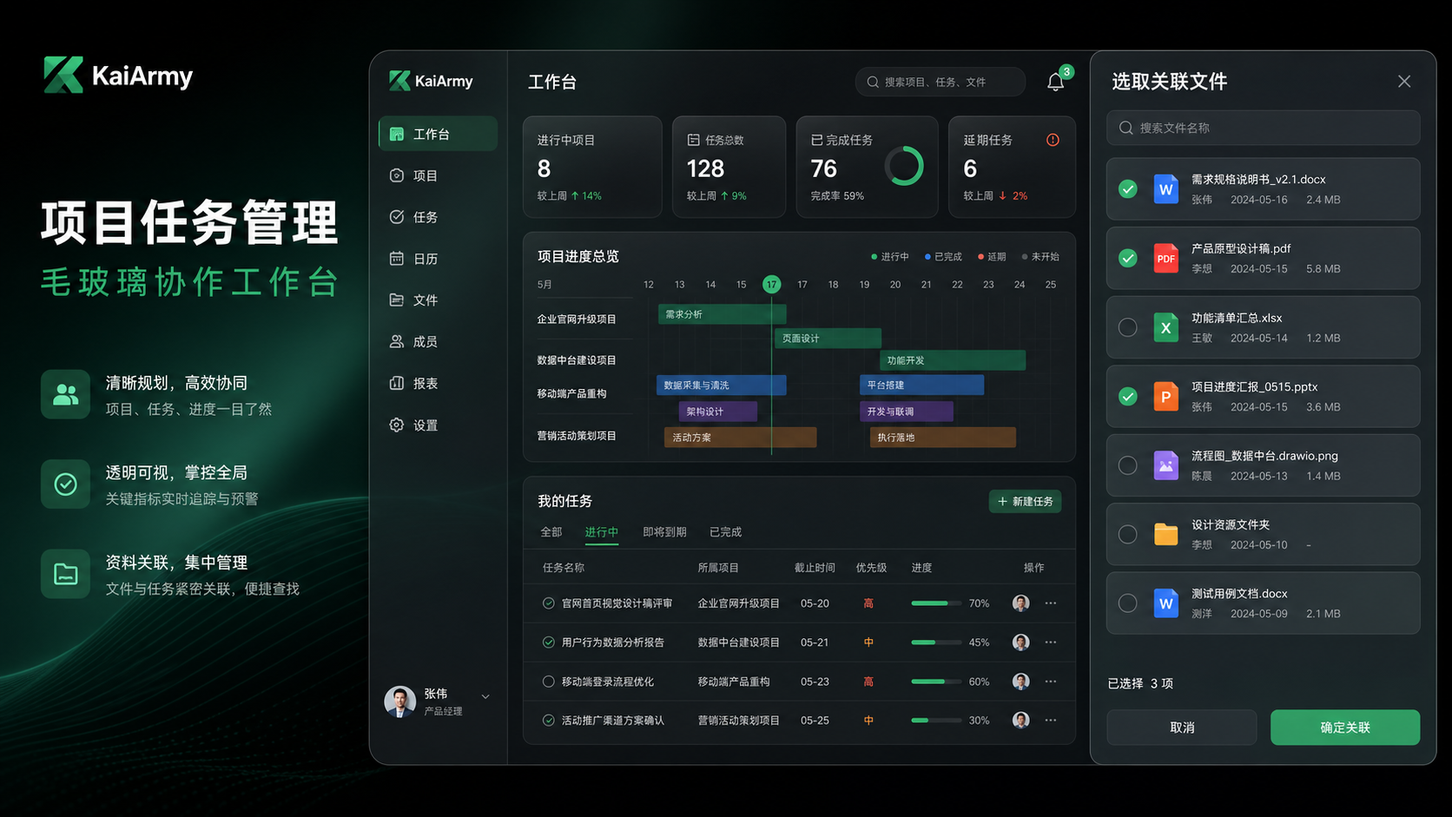
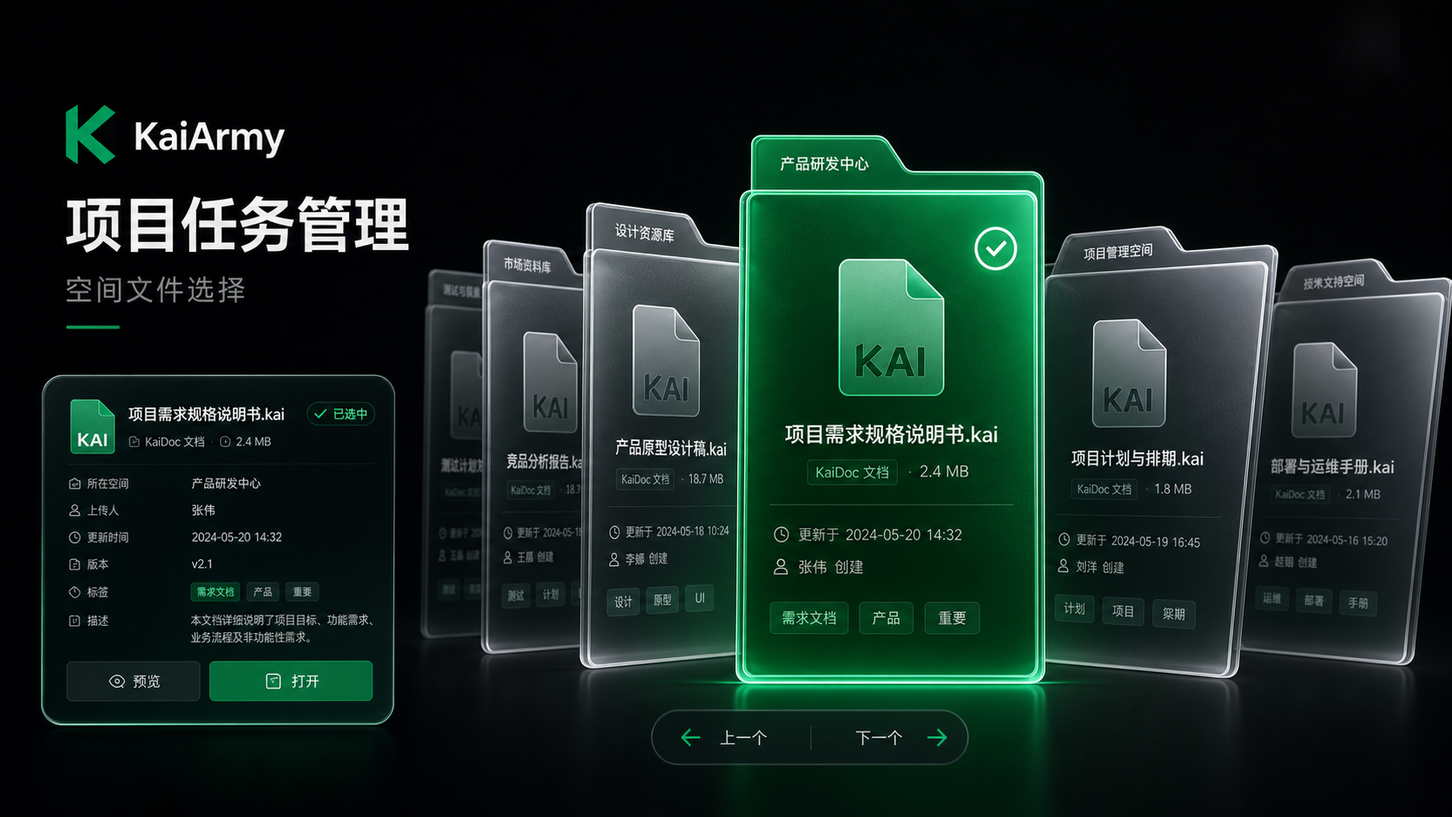
Build spatial glass file picker

diff --git a/app/globals.css b/app/globals.css
@@ -117,18 +117,20 @@ button:focus-visible, input:focus-visible, textarea:focus-visible, select:focus-
 .modal > header { display: flex; justify-content: space-between; margin-bottom: 18px; }.modal h2 { margin: 0 0 5px; font-size: 17px; }.modal header p { margin: 0; color: var(--faint); font-size: 8px; }.modal header button { background: transparent; color: var(--faint); font-size: 20px; }.modal-grid { display: grid; grid-template-columns: 1fr 1fr; gap: 12px; }.modal-grid label { display: flex; flex-direction: column; gap: 6px; color: var(--muted); font-size: 8px; }.modal-grid label.full { grid-column: 1 / -1; }.modal-grid input,.modal-grid textarea,.modal-grid select { width: 100%; min-height: 36px; padding: 0 10px; border: 1px solid var(--border); border-radius: 7px; outline: 0; background: var(--panel-2); font-size: 9px; }.modal-grid textarea { height: 78px; padding-top: 10px; resize: vertical; }.modal > footer { margin-top: 20px; display: flex; justify-content: flex-end; gap: 7px; }.modal > footer button { min-width: 80px; height: 36px; border: 1px solid var(--border); border-radius: 7px; background: var(--panel-2); color: var(--muted); font-size: 8px; }.modal > footer .primary { border: 0; background: var(--green); color: #04150b; }
 .toast { position: fixed; z-index: 70; top: 17px; left: 50%; transform: translateX(-50%); padding: 10px 16px; border: 1px solid rgba(53,216,126,.25); border-radius: 999px; background: #102419; color: #b6f1cf; font-size: 8px; box-shadow: 0 14px 40px rgba(0,0,0,.35); animation: toastIn .2s var(--ease); }
 @keyframes toastIn { from { opacity: 0; transform: translate(-50%,-8px); } }
-.file-picker-backdrop { position: fixed; inset: 0; z-index: 60; background: rgba(0,0,0,.54); backdrop-filter: blur(7px); -webkit-backdrop-filter: blur(7px); animation: fadeIn .18s ease-out; }
+.file-picker-backdrop { position: fixed; inset: 0; z-index: 60; padding: 20px; display: grid; place-items: center; background: radial-gradient(circle at 62% 42%,rgba(16,96,52,.16),transparent 37%),rgba(0,0,0,.72); backdrop-filter: blur(9px); -webkit-backdrop-filter: blur(9px); animation: fadeIn .18s ease-out; }
 @keyframes fadeIn { from { opacity: 0; } }
-.file-picker-drawer { position: absolute; inset: 0 0 0 auto; width: min(440px,calc(100vw - 28px)); padding: 22px; display: flex; flex-direction: column; background: linear-gradient(145deg,rgba(34,43,38,.84),rgba(13,18,15,.88)); border-left: 1px solid rgba(255,255,255,.13); box-shadow: inset 1px 0 rgba(255,255,255,.06),-28px 0 80px rgba(0,0,0,.42); backdrop-filter: blur(32px) saturate(145%); -webkit-backdrop-filter: blur(32px) saturate(145%); animation: drawerIn .26s var(--ease); }
-@keyframes drawerIn { from { transform: translateX(100%); } }
-.file-picker-drawer > header { display: flex; justify-content: space-between; padding-bottom: 19px; border-bottom: 1px solid var(--border); }.file-picker-drawer > header span { color: var(--green); font-size: 7px; letter-spacing: 1.6px; }.file-picker-drawer > header h2 { margin: 7px 0 5px; font-size: 18px; }.file-picker-drawer > header p { margin: 0; color: var(--faint); font-size: 8px; }.file-picker-drawer > header button { width: 32px; height: 32px; border: 1px solid var(--border); border-radius: 8px; background: rgba(255,255,255,.035); color: var(--muted); font-size: 18px; }
-.file-search { height: 39px; margin-top: 17px; padding: 0 11px; display: flex; align-items: center; gap: 8px; border: 1px solid var(--border); border-radius: 9px; background: rgba(255,255,255,.035); box-shadow: inset 0 1px rgba(255,255,255,.04); }.file-search span { color: var(--faint); }.file-search input { flex: 1; min-width: 0; border: 0; outline: 0; background: transparent; font-size: 8px; }
-.picker-summary { min-height: 44px; display: flex; align-items: center; justify-content: space-between; color: var(--muted); font-size: 8px; }.picker-summary strong { color: var(--green); }.picker-summary button { background: transparent; color: var(--faint); font-size: 7px; }
-.file-picker-list { flex: 1; min-height: 0; overflow-y: auto; display: flex; flex-direction: column; gap: 7px; padding-right: 3px; }
-.file-picker-list > button { width: 100%; min-height: 90px; padding: 11px; display: grid; grid-template-columns: 33px 1fr 22px; gap: 9px; align-items: start; border: 1px solid var(--border); border-radius: 10px; background: linear-gradient(140deg,rgba(255,255,255,.045),rgba(255,255,255,.012)); text-align: left; transition: .16s var(--ease); }.file-picker-list > button:hover { border-color: var(--border-strong); transform: translateY(-1px); }.file-picker-list > button.selected { border-color: rgba(53,216,126,.43); background: linear-gradient(140deg,rgba(53,216,126,.12),rgba(53,216,126,.035)); box-shadow: inset 0 1px rgba(255,255,255,.06),0 8px 24px rgba(0,0,0,.18); }
-.file-icon { width: 32px; height: 32px; display: grid; place-items: center; border-radius: 8px; background: rgba(53,216,126,.1); color: var(--green); }.file-picker-list > button > div { min-width: 0; }.file-picker-list strong { display: block; font-size: 9px; }.file-picker-list small { display: block; margin-top: 4px; color: var(--faint); font-size: 6px; }.file-picker-list p { margin: 8px 0 0; color: var(--muted); font-size: 7px; line-height: 1.45; display: -webkit-box; -webkit-box-orient: vertical; -webkit-line-clamp: 2; overflow: hidden; }.checkmark { width: 20px; height: 20px; display: grid; place-items: center; border: 1px solid var(--border-strong); border-radius: 6px; color: #04150b; font-size: 9px; }.file-picker-list button.selected .checkmark { border-color: var(--green); background: var(--green); }
-.picker-empty { min-height: 180px; display: flex; flex-direction: column; align-items: center; justify-content: center; color: var(--faint); }.picker-empty > span { color: var(--green); font-size: 26px; }.picker-empty strong { margin-top: 8px; color: var(--muted); font-size: 9px; }.picker-empty p { font-size: 7px; }
-.file-picker-drawer > footer { padding-top: 16px; display: grid; grid-template-columns: 1fr 1.35fr; gap: 8px; border-top: 1px solid var(--border); }.file-picker-drawer > footer button { height: 39px; border: 1px solid var(--border); border-radius: 8px; background: rgba(255,255,255,.035); color: var(--muted); font-size: 8px; }.file-picker-drawer > footer .primary { border: 0; background: var(--green); color: #04150b; }
+.spatial-picker { width: min(1120px,calc(100vw - 40px)); height: min(720px,calc(100vh - 40px)); min-height: 560px; display: grid; grid-template-rows: 86px minmax(0,1fr) 66px; overflow: hidden; border: 1px solid rgba(255,255,255,.14); border-radius: 22px; background: linear-gradient(145deg,rgba(30,39,34,.76),rgba(8,12,10,.87)); box-shadow: inset 0 1px rgba(255,255,255,.09),0 40px 110px rgba(0,0,0,.66); backdrop-filter: blur(34px) saturate(145%); -webkit-backdrop-filter: blur(34px) saturate(145%); animation: spatialOpen .32s var(--ease); }
+@keyframes spatialOpen { from { opacity: 0; transform: translateY(18px) scale(.97); } }
+.spatial-picker-header { padding: 0 20px 0 24px; display: grid; grid-template-columns: 1fr minmax(210px,310px) 38px; align-items: center; gap: 16px; border-bottom: 1px solid var(--border); background: linear-gradient(180deg,rgba(255,255,255,.035),transparent); }.spatial-picker-header > div > span { color: var(--green); font-size: 7px; letter-spacing: 1.8px; }.spatial-picker-header h2 { margin: 5px 0 3px; font-size: 17px; }.spatial-picker-header p { margin: 0; color: var(--faint); font-size: 8px; }.spatial-picker-header > button { width: 36px; height: 36px; border: 1px solid var(--border); border-radius: 9px; background: rgba(255,255,255,.035); color: var(--muted); font-size: 19px; }
+.file-search { height: 38px; padding: 0 11px; display: flex; align-items: center; gap: 8px; border: 1px solid var(--border); border-radius: 9px; background: rgba(255,255,255,.035); box-shadow: inset 0 1px rgba(255,255,255,.04); }.file-search span { color: var(--faint); }.file-search input { flex: 1; min-width: 0; border: 0; outline: 0; background: transparent; font-size: 8px; }
+.spatial-stage { min-height: 0; position: relative; overflow: hidden; touch-action: pan-y; user-select: none; background: radial-gradient(ellipse at 70% 70%,rgba(31,229,114,.11),transparent 36%),linear-gradient(180deg,rgba(0,0,0,.08),rgba(0,0,0,.3)); }
+.spatial-stage:after { content: ""; position: absolute; left: 28%; right: 4%; bottom: 58px; height: 1px; background: linear-gradient(90deg,transparent,rgba(255,255,255,.16),transparent); box-shadow: 0 14px 40px rgba(35,235,121,.12); }
+.spatial-file-summary { position: absolute; z-index: 35; left: 34px; top: 50%; width: 232px; min-height: 292px; padding: 22px; transform: translateY(-50%); border: 1px solid rgba(255,255,255,.17); border-radius: 17px; background: linear-gradient(145deg,rgba(255,255,255,.16),rgba(255,255,255,.035)); box-shadow: inset 0 1px rgba(255,255,255,.16),0 24px 65px rgba(0,0,0,.32); backdrop-filter: blur(26px) saturate(145%); -webkit-backdrop-filter: blur(26px) saturate(145%); }.spatial-file-summary > span { color: var(--green); font-size: 7px; letter-spacing: 1px; }.spatial-file-summary h3 { margin: 12px 0 10px; font-size: 18px; line-height: 1.35; }.spatial-file-summary p { height: 68px; margin: 0; overflow: hidden; color: var(--muted); font-size: 8px; line-height: 1.7; display: -webkit-box; -webkit-box-orient: vertical; -webkit-line-clamp: 4; }.spatial-file-summary > div { margin-top: 18px; display: flex; align-items: baseline; gap: 7px; }.spatial-file-summary > div strong { font-size: 30px; font-weight: 400; }.spatial-file-summary > div small { color: var(--faint); font-size: 8px; }.spatial-file-summary > button { width: 100%; height: 37px; margin-top: 18px; border: 1px solid rgba(53,216,126,.3); border-radius: 9px; background: rgba(53,216,126,.08); color: var(--green); font-size: 8px; }.spatial-file-summary > button.selected { border-color: var(--green); background: var(--green); color: #04150b; }
+.spatial-deck { position: absolute; inset: 0 0 0 270px; perspective: 1200px; perspective-origin: 52% 46%; transform-style: preserve-3d; }
+.spatial-file-card { position: absolute; left: 52%; top: 47%; width: 190px; height: 300px; padding: 0; overflow: visible; border: 1px solid rgba(255,255,255,.42); border-radius: 15px 15px 13px 13px; background: linear-gradient(150deg,rgba(255,255,255,.28),rgba(255,255,255,.055) 53%,rgba(7,10,9,.68)); box-shadow: inset 1px 1px rgba(255,255,255,.25),0 25px 46px rgba(0,0,0,.46); opacity: var(--card-opacity); transform: translate(-50%,-50%) translateX(var(--card-x)) translateY(var(--card-y)) rotateY(var(--card-rotate)) scale(var(--card-scale)); transform-origin: center center; transform-style: preserve-3d; transition: transform .46s cubic-bezier(.2,.75,.18,1),opacity .35s ease,background .25s,border-color .25s,box-shadow .25s; text-align: left; }.spatial-file-card:before { content: ""; position: absolute; inset: 25px 18px auto; height: 96px; opacity: .48; background: repeating-linear-gradient(180deg,rgba(255,255,255,.52) 0 7px,transparent 7px 16px); -webkit-mask-image: linear-gradient(90deg,#000 0 34%,transparent 34% 39%,#000 39% 73%,transparent 73% 78%,#000 78%); mask-image: linear-gradient(90deg,#000 0 34%,transparent 34% 39%,#000 39% 73%,transparent 73% 78%,#000 78%); }.spatial-file-card:after { content: ""; position: absolute; inset: 6px; border: 1px solid rgba(255,255,255,.08); border-radius: 10px; pointer-events: none; }.spatial-file-card:hover { opacity: 1; border-color: rgba(255,255,255,.66); }.spatial-file-card.active { opacity: 1; background: linear-gradient(150deg,rgba(36,244,126,.95),rgba(8,178,78,.82) 58%,rgba(4,78,34,.92)); border-color: rgba(98,255,163,.9); box-shadow: inset 1px 1px rgba(255,255,255,.35),0 0 36px rgba(28,235,113,.28),0 30px 54px rgba(0,0,0,.52); }.spatial-file-card.picked:not(.active) { border-color: rgba(53,216,126,.75); box-shadow: inset 1px 1px rgba(255,255,255,.25),0 0 20px rgba(35,220,110,.16),0 25px 46px rgba(0,0,0,.46); }
+.folder-tab { position: absolute; z-index: -1; left: -1px; top: -19px; width: 92px; height: 28px; border: 1px solid rgba(255,255,255,.42); border-bottom: 0; border-radius: 14px 20px 0 0; background: inherit; clip-path: polygon(0 20%,66% 20%,77% 0,100% 0,100% 100%,0 100%); }.paper-lines { position: absolute; left: 26px; right: 26px; top: 139px; height: 42px; opacity: .38; background: repeating-linear-gradient(180deg,rgba(255,255,255,.7) 0 2px,transparent 2px 10px); }.spatial-check { position: absolute; top: 16px; right: 15px; width: 24px; height: 24px; display: grid; place-items: center; border: 1px solid rgba(255,255,255,.36); border-radius: 50%; background: rgba(0,0,0,.12); color: white; font-size: 10px; }.spatial-file-card > div { position: absolute; inset: auto 16px 16px; display: grid; gap: 7px; color: white; text-shadow: 0 1px 5px rgba(0,0,0,.25); }.spatial-file-card > div small { opacity: .7; font-size: 7px; }.spatial-file-card > div strong { font-size: 12px; line-height: 1.35; }.spatial-file-card > div span { opacity: .78; font-size: 8px; }
+.spatial-controls { position: absolute; z-index: 40; left: calc(270px + 52%); bottom: 17px; display: flex; align-items: center; gap: 13px; transform: translateX(-50%); }.spatial-controls button { width: 34px; height: 34px; border: 1px solid var(--border); border-radius: 50%; background: rgba(255,255,255,.055); color: var(--text); }.spatial-controls span { min-width: 48px; color: var(--faint); font-size: 8px; text-align: center; }.spatial-controls strong { color: var(--green); font-size: 11px; }.spatial-empty { position: absolute; inset: 0; display: flex; flex-direction: column; align-items: center; justify-content: center; color: var(--faint); }.spatial-empty > span { color: var(--green); font-size: 30px; }.spatial-empty strong { margin-top: 9px; color: var(--muted); font-size: 10px; }.spatial-empty p { font-size: 8px; }
+.spatial-picker-footer { padding: 0 20px 0 24px; display: grid; grid-template-columns: 1fr 92px 150px; align-items: center; gap: 8px; border-top: 1px solid var(--border); background: rgba(4,7,5,.25); }.spatial-picker-footer > div { display: flex; align-items: center; gap: 13px; color: var(--muted); font-size: 8px; }.spatial-picker-footer > div strong { color: var(--green); }.spatial-picker-footer > div button { padding: 0; background: transparent; color: var(--faint); font-size: 7px; }.spatial-picker-footer > button { height: 38px; border: 1px solid var(--border); border-radius: 8px; background: rgba(255,255,255,.035); color: var(--muted); font-size: 8px; }.spatial-picker-footer > button.primary { border: 0; background: var(--green); color: #04150b; }
 .compact .page { padding: 13px 15px 20px; }.compact .kanban-column { min-height: 450px; }.compact .task-card { min-height: 106px; }.compact .column-body { min-height: 405px; }.compact .metric { min-height: 84px; }
 
 @media (max-width: 1220px) {
@@ -142,9 +144,9 @@ button:focus-visible, input:focus-visible, textarea:focus-visible, select:focus-
   .page { padding: 13px 10px 20px; }.metric-grid { grid-template-columns: repeat(2,1fr); }.summary-strip { grid-template-columns: 1fr; }.summary-strip .metric { border-right: 0; border-bottom: 1px solid var(--border); }
   .toolbar { align-items: flex-start; gap: 8px; }.toolbar > div:first-child { flex-wrap: wrap; }.project-grid,.team-grid,.settings-layout { grid-template-columns: 1fr; }.danger-zone { grid-column: auto; }.knowledge-layout { grid-template-columns: 1fr; }.knowledge-sidebar { min-height: auto; }.knowledge-article { min-height: auto; padding: 22px 18px; }
   .calendar { overflow-x: auto; }.calendar > * { min-width: 720px; }.analytics-grid { grid-template-columns: 1fr; }.stage-chart { grid-column: auto; }.task-table { overflow-x: auto; }.task-table > * { min-width: 760px; }.modal-grid { grid-template-columns: 1fr; }.modal-grid label.full { grid-column: auto; }
-  .file-picker-drawer { width: calc(100vw - 68px); }
+  .file-picker-backdrop { padding: 8px; }.spatial-picker { width: 100%; height: calc(100vh - 16px); min-height: 520px; grid-template-rows: 105px minmax(0,1fr) 62px; border-radius: 15px; }.spatial-picker-header { padding: 10px 13px; grid-template-columns: 1fr 34px; gap: 8px; }.spatial-picker-header .file-search { grid-column: 1 / -1; grid-row: 2; }.spatial-picker-header > button { grid-column: 2; grid-row: 1; width: 32px; height: 32px; }.spatial-picker-header p { display: none; }.spatial-file-summary { display: none; }.spatial-deck { left: 0; }.spatial-file-card { left: 50%; width: 156px; height: 245px; }.spatial-controls { left: 50%; }.spatial-picker-footer { padding: 0 12px; grid-template-columns: 1fr 70px 120px; }.spatial-picker-footer > div button { display: none; }
 }
 
 @supports not ((backdrop-filter: blur(1px)) or (-webkit-backdrop-filter: blur(1px))) {
-  .panel,.sidebar,.header,.file-picker-drawer { background: #151a17; }
+  .panel,.sidebar,.header,.spatial-picker,.spatial-file-summary { background: #151a17; }
 }

diff --git a/app/page.tsx b/app/page.tsx
@@ -1,6 +1,6 @@
 "use client";
 
-import { useEffect, useMemo, useRef, useState } from "react";
+import { useEffect, useMemo, useRef, useState, type CSSProperties } from "react";
 import {
   defaultWorkspace,
   type CalendarEvent,
@@ -304,38 +304,122 @@ function TaskManagement({ workspace, search, selectedTaskId, onSelect, onUpdate,
           <section className="ai-note"><span>✦ 智能建议</span><strong>{isOverdue(selected) ? "任务已经逾期，建议重新排期或转交。" : selected.priority === "high" ? "这是高优先级任务，建议拆分验收节点。" : "当前任务状态正常。"}</strong></section>
           <section className="comments"><h3>协作评论 <span>{workspace.comments.filter((item) => item.taskId === selected.id).length}</span></h3><div className="comment-list">{workspace.comments.filter((item) => item.taskId === selected.id).map((item) => { const author = workspace.members.find((member) => member.id === item.authorId); return <article key={item.id}><Avatar label={author?.avatar ?? "?"} /><div><strong>{author?.name}</strong><p>{item.content}</p><small>{formatDateTime(item.createdAt)}</small></div></article>; })}</div><form onSubmit={(event) => { event.preventDefault(); if (!comment.trim()) return; onComment(comment.trim()); setComment(""); }}><input value={comment} onChange={(event) => setComment(event.target.value)} placeholder="写下评论，支持 @成员…" /><button disabled={!comment.trim()}>发送</button></form></section>
           <footer><button className="danger-button" onClick={() => onDelete(selected.id)}>删除</button><button onClick={() => onEdit(selected)}>编辑详情</button><button className="primary" onClick={() => onUpdate(selected.id, { status: selected.status === "done" ? "develop" : "done" })}>{selected.status === "done" ? "重新打开" : "✓ 完成任务"}</button></footer>
-          {showDocPicker && <FilePickerDrawer docs={workspace.docs} selectedIds={selected.docIds} taskTitle={selected.title} onClose={() => setShowDocPicker(false)} onSave={(docIds) => { onLinkDocs(selected.id, docIds); setShowDocPicker(false); }} />}
+          {showDocPicker && <SpatialFilePicker docs={workspace.docs} selectedIds={selected.docIds} taskTitle={selected.title} onClose={() => setShowDocPicker(false)} onSave={(docIds) => { onLinkDocs(selected.id, docIds); setShowDocPicker(false); }} />}
         </aside>
       ) : <aside className="task-drawer panel empty-state"><span>◇</span><h3>选择一个任务</h3><p>查看详情、评论和关联文档</p></aside>}
     </div>
   );
 }
 
-function FilePickerDrawer({ docs, selectedIds, taskTitle, onClose, onSave }: { docs: Doc[]; selectedIds: string[]; taskTitle: string; onClose: () => void; onSave: (ids: string[]) => void }) {
+function SpatialFilePicker({ docs, selectedIds, taskTitle, onClose, onSave }: { docs: Doc[]; selectedIds: string[]; taskTitle: string; onClose: () => void; onSave: (ids: string[]) => void }) {
   const [query, setQuery] = useState("");
   const [picked, setPicked] = useState<string[]>(selectedIds);
-  useEffect(() => {
-    const closeOnEscape = (event: KeyboardEvent) => { if (event.key === "Escape") onClose(); };
-    window.addEventListener("keydown", closeOnEscape);
-    return () => window.removeEventListener("keydown", closeOnEscape);
-  }, [onClose]);
+  const [focusId, setFocusId] = useState(selectedIds[0] ?? docs[0]?.id ?? "");
+  const pointerStart = useRef<number | null>(null);
+  const wheelLocked = useRef(false);
   const visible = docs.filter((doc) => `${doc.name}${doc.content}${doc.type}`.toLowerCase().includes(query.toLowerCase()));
+  const focusIndex = Math.max(0, visible.findIndex((doc) => doc.id === focusId));
+  const activeDoc = visible[focusIndex];
   const toggle = (id: string) => setPicked((current) => current.includes(id) ? current.filter((item) => item !== id) : [...current, id]);
+  const move = (direction: number) => {
+    if (!visible.length) return;
+    setFocusId((current) => {
+      const currentIndex = visible.findIndex((doc) => doc.id === current);
+      const nextIndex = ((currentIndex < 0 ? 0 : currentIndex) + direction + visible.length) % visible.length;
+      return visible[nextIndex].id;
+    });
+  };
+
+  useEffect(() => {
+    if (visible.length && !visible.some((doc) => doc.id === focusId)) setFocusId(visible[0].id);
+  }, [focusId, visible]);
+
+  useEffect(() => {
+    const handleKey = (event: KeyboardEvent) => {
+      if (event.key === "Escape") onClose();
+      if (event.key === "ArrowLeft") { event.preventDefault(); move(-1); }
+      if (event.key === "ArrowRight") { event.preventDefault(); move(1); }
+      if (event.key === " " && activeDoc && event.target === document.body) { event.preventDefault(); toggle(activeDoc.id); }
+    };
+    window.addEventListener("keydown", handleKey);
+    return () => window.removeEventListener("keydown", handleKey);
+  }, [activeDoc, onClose, visible]);
+
   return (
     <div className="file-picker-backdrop" onMouseDown={onClose}>
-      <aside className="file-picker-drawer" onMouseDown={(event) => event.stopPropagation()} aria-label="文件选择器">
-        <header><div><span>FILE PICKER</span><h2>选取关联文件</h2><p>关联到「{taskTitle}」</p></div><button aria-label="关闭文件选择器" onClick={onClose}>×</button></header>
-        <label className="file-search"><span>⌕</span><input autoFocus value={query} onChange={(event) => setQuery(event.target.value)} placeholder="搜索文件名称、类型或内容…" /></label>
-        <div className="picker-summary"><span>已选择 <strong>{picked.length}</strong> 个文件</span>{picked.length > 0 && <button onClick={() => setPicked([])}>清空选择</button>}</div>
-        <div className="file-picker-list">
-          {visible.map((doc) => {
-            const checked = picked.includes(doc.id);
-            return <button className={checked ? "selected" : ""} key={doc.id} onClick={() => toggle(doc.id)}><span className="file-icon">▤</span><div><strong>{doc.name}</strong><small>{doc.type.toUpperCase()} · v{doc.version} · 已关联 {doc.taskIds.length} 个任务</small><p>{doc.content}</p></div><span className="checkmark">{checked ? "✓" : ""}</span></button>;
-          })}
-          {!visible.length && <div className="picker-empty"><span>◇</span><strong>没有匹配的文件</strong><p>换一个关键词试试</p></div>}
+      <section className="spatial-picker" onMouseDown={(event) => event.stopPropagation()} aria-label="空间文件选择器">
+        <header className="spatial-picker-header">
+          <div><span>SPATIAL FILES</span><h2>选取关联文件</h2><p>关联到「{taskTitle}」· 左右滑动抽取文件</p></div>
+          <label className="file-search"><span>⌕</span><input autoFocus value={query} onChange={(event) => setQuery(event.target.value)} placeholder="搜索文件…" /></label>
+          <button aria-label="关闭文件选择器" onClick={onClose}>×</button>
+        </header>
+        <div
+          className="spatial-stage"
+          onWheel={(event) => {
+            if (wheelLocked.current || Math.abs(event.deltaY) + Math.abs(event.deltaX) < 12) return;
+            wheelLocked.current = true;
+            move(event.deltaY + event.deltaX > 0 ? 1 : -1);
+            window.setTimeout(() => { wheelLocked.current = false; }, 260);
+          }}
+          onPointerDown={(event) => { pointerStart.current = event.clientX; }}
+          onPointerUp={(event) => {
+            if (pointerStart.current === null) return;
+            const distance = event.clientX - pointerStart.current;
+            if (Math.abs(distance) > 36) move(distance > 0 ? -1 : 1);
+            pointerStart.current = null;
+          }}
+        >
+          {activeDoc && (
+            <aside className="spatial-file-summary">
+              <span>{activeDoc.type.toUpperCase()} · v{activeDoc.version}</span>
+              <h3>{activeDoc.name}</h3>
+              <p>{activeDoc.content}</p>
+              <div><strong>{activeDoc.taskIds.length}</strong><small>已关联任务</small></div>
+              <button className={picked.includes(activeDoc.id) ? "selected" : ""} onClick={() => toggle(activeDoc.id)}>{picked.includes(activeDoc.id) ? "✓ 已选择，点击移除" : "＋ 选择当前文件"}</button>
+            </aside>
+          )}
+          <div className="spatial-deck">
+            {visible.map((doc, index) => {
+              let offset = index - focusIndex;
+              if (visible.length > 2 && offset > visible.length / 2) offset -= visible.length;
+              if (visible.length > 2 && offset < -visible.length / 2) offset += visible.length;
+              const distance = Math.abs(offset);
+              const style = {
+                "--card-x": `${offset * 112}px`,
+                "--card-y": `${distance * 9}px`,
+                "--card-rotate": `${offset === 0 ? 0 : offset < 0 ? 49 : -49}deg`,
+                "--card-scale": `${Math.max(.72, 1 - distance * .07)}`,
+                "--card-opacity": `${Math.max(.26, 1 - distance * .16)}`,
+                zIndex: 20 - distance,
+              } as CSSProperties;
+              return (
+                <button
+                  key={doc.id}
+                  style={style}
+                  className={`spatial-file-card ${offset === 0 ? "active" : ""} ${picked.includes(doc.id) ? "picked" : ""}`}
+                  onClick={() => setFocusId(doc.id)}
+                  aria-label={`查看文件 ${doc.name}${picked.includes(doc.id) ? "，已选择" : ""}`}
+                >
+                  <i className="folder-tab"></i>
+                  <span className="paper-lines"></span>
+                  <span className="spatial-check">{picked.includes(doc.id) ? "✓" : ""}</span>
+                  <div><small>{doc.type.toUpperCase()} · v{doc.version}</small><strong>{doc.name}</strong><span>♟ {doc.taskIds.length}</span></div>
+                </button>
+              );
+            })}
+          </div>
+          {visible.length > 0 ? (
+            <div className="spatial-controls">
+              <button aria-label="上一个文件" onClick={() => move(-1)}>←</button>
+              <span><strong>{focusIndex + 1}</strong> / {visible.length}</span>
+              <button aria-label="下一个文件" onClick={() => move(1)}>→</button>
+            </div>
+          ) : (
+            <div className="spatial-empty"><span>◇</span><strong>没有匹配的文件</strong><p>换一个关键词试试</p></div>
+          )}
         </div>
-        <footer><button onClick={onClose}>取消</button><button className="primary" onClick={() => onSave(picked)}>确认关联 · {picked.length}</button></footer>
-      </aside>
+        <footer className="spatial-picker-footer"><div><span>已选择 <strong>{picked.length}</strong> 个文件</span>{picked.length > 0 && <button onClick={() => setPicked([])}>清空选择</button>}</div><button onClick={onClose}>取消</button><button className="primary" onClick={() => onSave(picked)}>确认关联 · {picked.length}</button></footer>
+      </section>
     </div>
   );
 }
